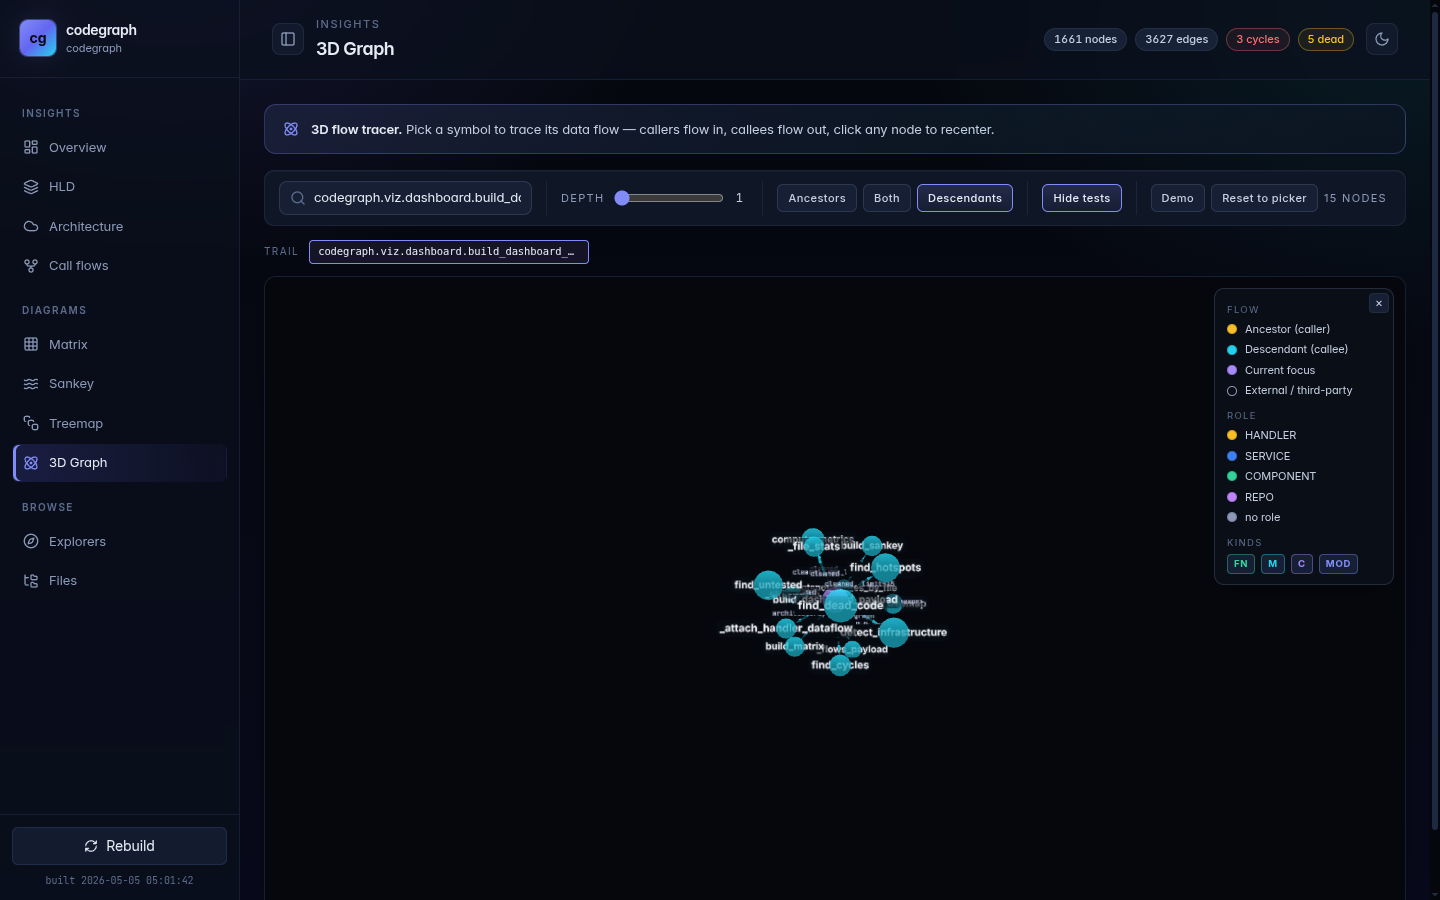
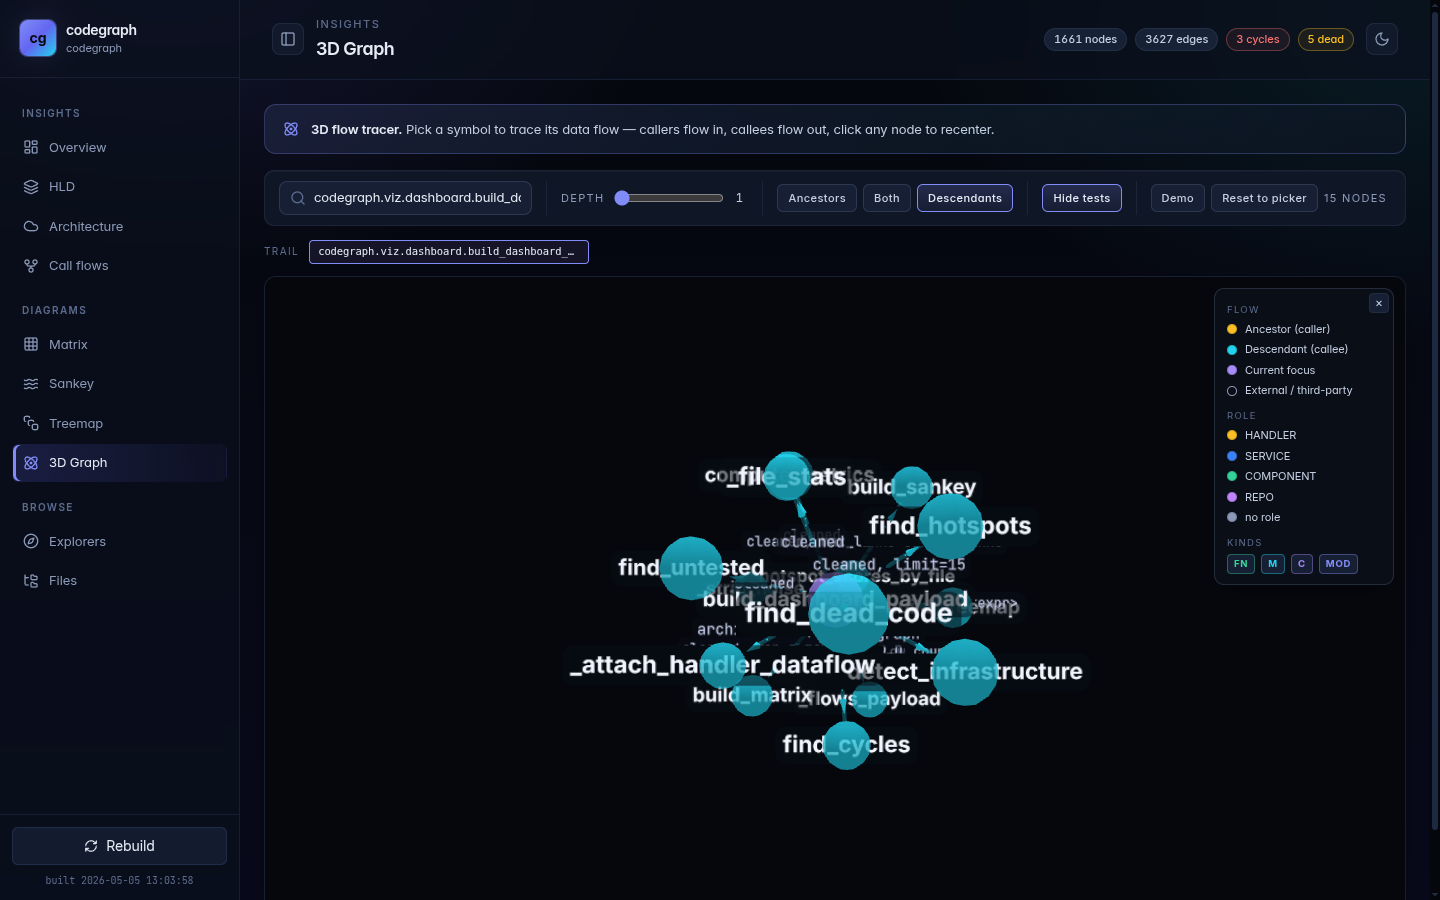
fix(graph3d): cap cooldownTime + tight zoom padding so camera fits the canvas
The first cut shipped onEngineStop -> zoomToFit(800, 60), but the
visual was still cluttered into a tiny corner of the canvas. Two
problems compounded:

1. cooldownTime defaults to 15 seconds in 3d-force-graph. onEngineStop
   only fires once the simulation cools below alphaMin (or hits the
   cooldownTime cap). For small focused subgraphs (typically <50 nodes)
   the simulation never naturally settles within a reasonable time —
   so the post-settle zoomToFit was firing 12+ seconds after focus
   change, and screenshots taken before that captured the default
   far-out camera.

2. 60px padding on a ~80-unit cluster means the camera ends up at
   z~218 — fitting the cluster to viewport-MINUS-120px. On a 1140x646
   canvas that left ~80% of the viewport as black margin.

Fixes:
- .cooldownTime(3000): cap simulation runtime so onEngineStop fires
  reliably ~3s after mount.
- setTimeout(fitCameraOnce, 3500) safety net wired in bootScene: if
  onEngineStop doesn't fire (background-tab rAF throttling, browser
  bugs, etc.) the timer guarantees camera fit. cameraFitDone flag
  makes whichever-fires-first idempotent.
- zoomToFit(800, 20): tight 20px padding fills the canvas with a
  tasteful margin. 60px wasted most of the viewport.
- New fitCameraOnce() helper consolidates the idempotency logic.
- Debug surface: window.__cgGraph3d = instance, lets users (and the
  Playwright capture script) inspect camera state from devtools.
[…]

Changed region(s): [[0.4062, 0.4978, 0.75, 0.8711]]

diff --git a/codegraph/web/static/views/graph3d.js b/codegraph/web/static/views/graph3d.js
@@ -26,7 +26,8 @@
   var demoCtl = null;
   var resizeObs = null;
   var currentHost = null;
-  var cameraFitDone = false;  // one-shot zoomToFit per focus change
+  var cameraFitDone = false;     // one-shot zoomToFit per focus change
+  var fitFallbackTimer = null;   // safety-net timer in case onEngineStop never fires
 
   var focus = null;             // { rootQn, depth, direction }
   var focusState = null;        // mutable graph state from makeFocusState
@@ -182,9 +183,23 @@
       instance = null;
     }
     if (resizeObs) { try { resizeObs.disconnect(); } catch (e) {} resizeObs = null; }
+    if (fitFallbackTimer) { clearTimeout(fitFallbackTimer); fitFallbackTimer = null; }
     cameraFitDone = false;
     clearSpriteCache();
     clearEdgeSpriteCache();
+  }
+
+  // Fit the camera to the cluster bounding box, exactly once per scene.
+  // Called from onEngineStop AND from a setTimeout fallback in bootScene
+  // — whichever fires first wins; the cameraFitDone latch keeps the other
+  // from re-zooming and confusing the user mid-interaction.
+  function fitCameraOnce() {
+    if (!instance || cameraFitDone) return;
+    cameraFitDone = true;
+    // Tight 20px padding fills the canvas without crowding labels.
+    // 60px (the library default-ish value) wastes most of the viewport for
+    // the small focused subgraphs this view renders.
+    try { instance.zoomToFit(800, 20); } catch (e) { /* ignore */ }
   }
 
   function fallbackHtml(msg) {
@@ -823,7 +838,18 @@
     var detailEl = host.querySelector('#g3d-detail');
 
     try {
-      instance = window.ForceGraph3D()(container)
+      instance = window.ForceGraph3D()(container);
+      // Debug surface: lets users (and Playwright recordings) poke at the
+      // live ForceGraph3D instance from devtools — read camera position,
+      // call zoomToFit manually, dump graphData. Read-only by convention.
+      if (typeof window !== 'undefined') window.__cgGraph3d = instance;
+      instance
+        // Cap simulation runtime so onEngineStop fires reliably ~3s after
+        // mount. The library default is 15000ms, which leaves the camera
+        // stuck at its initial distance for an awkwardly long time before
+        // the post-settle zoomToFit kicks in. 3000ms is plenty for the
+        // small focused subgraphs this view renders (typically <50 nodes).
+        .cooldownTime(3000)
         .backgroundColor(bgColor())
         .nodeRelSize(4)
         .nodeColor(function (n) { return n.color; })
@@ -876,15 +902,14 @@
           return true;
         })
         .onEngineStop(function () {
-          // Fired when the force simulation cools below alphaMin. Auto-fit
-          // the camera once per focus change so the cluster sits centered
-          // in the canvas instead of drifting bottom-right when callers
-          // outweigh callees (or vice-versa). One-shot guard: an expansion
-          // re-runs the simulation; we don't want to snap the camera on
-          // every minor adjustment after the user has settled in.
-          if (!instance || cameraFitDone) return;
-          cameraFitDone = true;
-          try { instance.zoomToFit(800, 60); } catch (e) { /* ignore */ }
+          // Fired when the force simulation cools below alphaMin (or hits
+          // the cooldownTime cap above). Auto-fit the camera once per
+          // focus change so the cluster sits centered in the canvas
+          // instead of drifting when callers outweigh callees (or
+          // vice-versa). One-shot guard: an expansion re-runs the
+          // simulation; we don't want to snap the camera on every minor
+          // adjustment after the user has settled in.
+          fitCameraOnce();
         })
         .onNodeHover(function (node) {
           container.style.cursor = node ? 'pointer' : 'grab';
@@ -927,6 +952,14 @@
         resizeObs.observe(container);
       }
       injectLegendOverlay(host);
+
+      // Belt-and-suspenders: schedule a one-shot zoomToFit at 3.5s so the
+      // camera centers on the cluster even if onEngineStop never fires
+      // (some browsers throttle requestAnimationFrame in background tabs;
+      // and the cooldownTime cap above is 3000ms, so 3500ms is a safe
+      // margin). cameraFitDone makes this idempotent — whichever fires
+      // first wins, the other becomes a no-op.
+      fitFallbackTimer = setTimeout(fitCameraOnce, 3500);
     } catch (e) {
       host.innerHTML = fallbackHtml('WebGL initialization failed: ' + (e && e.message || e));
       wireFallback(host);
